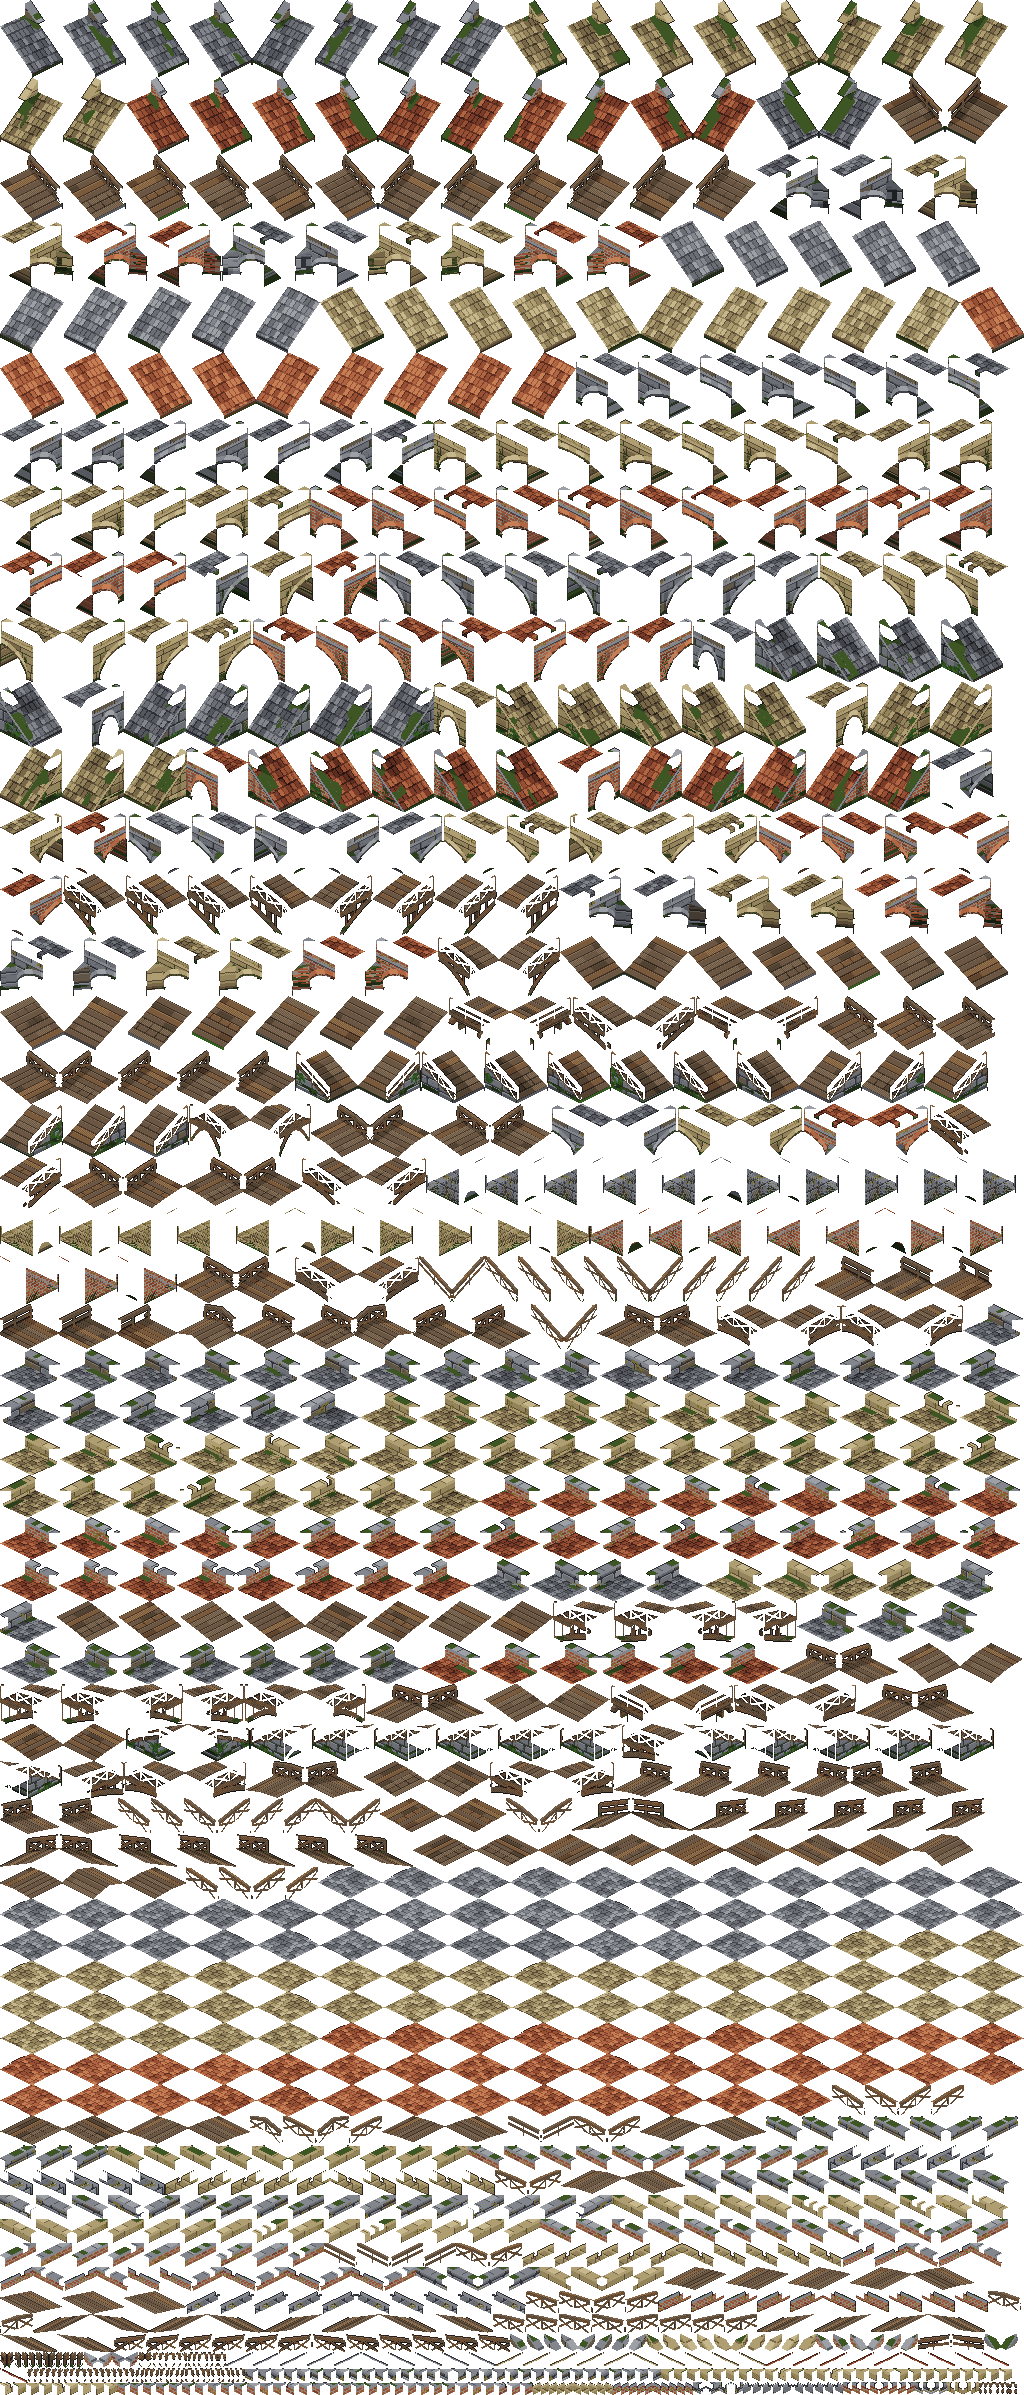
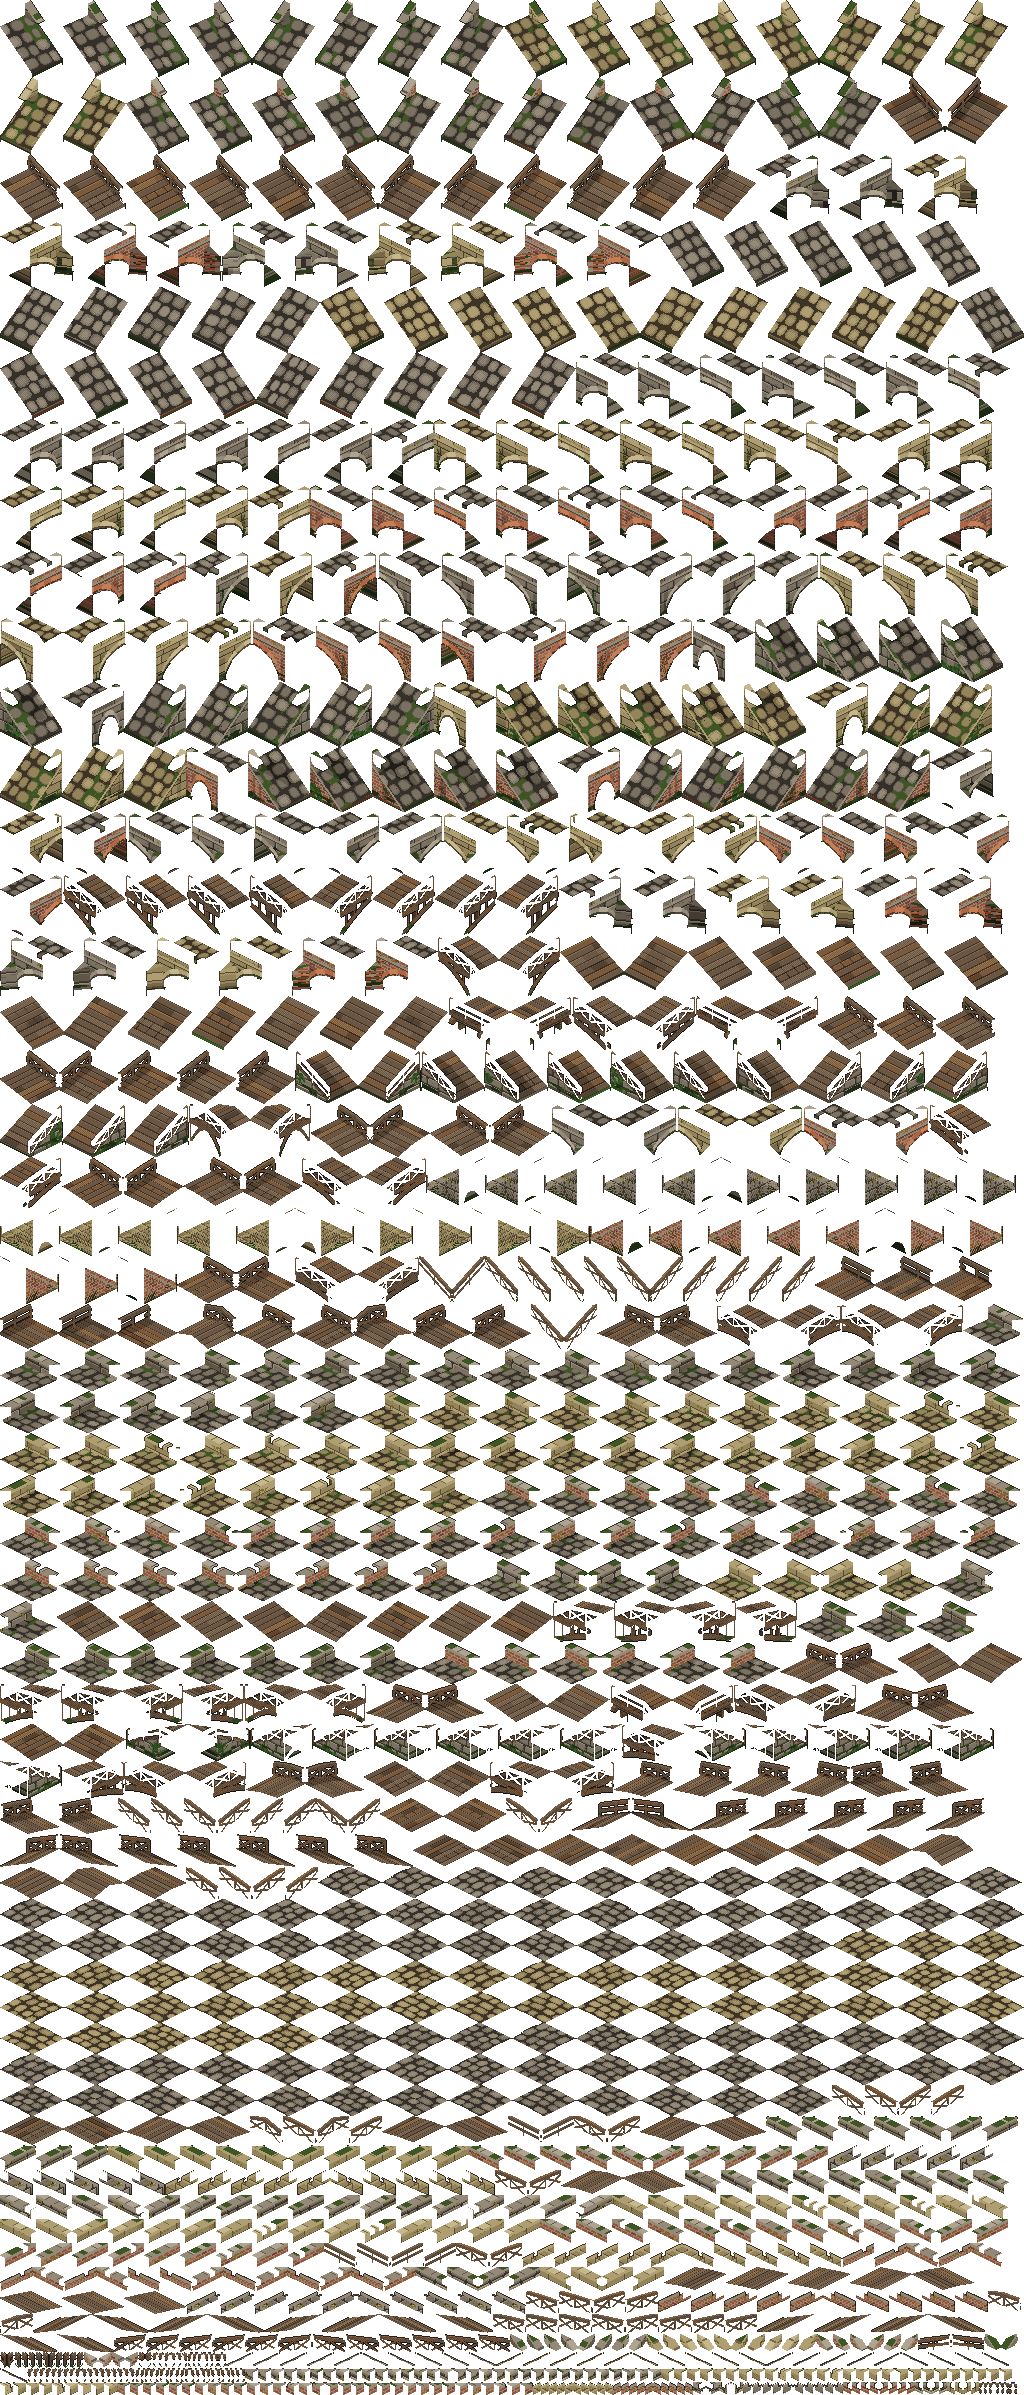
Bruggen: grote ronde kinderkopjes in het warme grijs van de huizen, ook op de brug van baksteen
Marcel, 17 okt, op de eerste beelden uit het spel: "de stenen van de brug nog niet goed genoeg", "deze zijn te fijn",
"die rode lijken wel dakpannen" en "de ramp op de grijze stenen is ook te verschillend met de rest". Het wegdek had
kinderkopjes van 5 bij 4 pixels in de steen van de brug, dus op een brug van baksteen rode rijtjes; nu zijn het ronde
stenen van 8 bij 8 tot 13, met een bredere voeg waar vier samenkomen, grijs (bij zandsteen zandkleurig). En het grijs is
veldsteenWarm, dat van de huizen, in plaats van het koele veldsteen van dorp.cjs.

Claude-Session: https://claude.ai/code/session_01HNnbMq3zaGXouj2zumrMh8

diff --git a/ontwerp/beeld.md b/ontwerp/beeld.md
@@ -1110,6 +1110,12 @@ persoon." Op de tweede: **"Goed zo, zet ze in het spel"**.
 - **Waar welke** (`js/eiland.js`, `brugSoort`): steen bij de stad (baksteen) en het kasteel, bij rotsen en op de heide, en
   over een brede oversteek; hout in het woud, het veen en het broek, en over een smalle, om de andere een boogbrug. De
   steen is die van het land: zandsteen bij de stijlen oker en roze, anders veldsteen.
+- **De stenen in het spel** (Marcel, 17 okt, op de eerste beelden uit het spel: "de stenen van de brug nog niet goed
+  genoeg", "deze zijn te fijn", "die rode lijken wel dakpannen", "de ramp op de grijze stenen is ook te verschillend met
+  de rest"): het wegdek is van grote, ronde kinderkopjes (`wegdekPixel`: rijen van 8 pixels dwars op de brug, stenen van
+  8 tot 13, met ronde hoeken en een bredere voeg waar vier stenen samenkomen), grijs op een brug van veldsteen en van
+  baksteen (de baksteen zit alleen in de muren), zandkleurig op een brug van zandsteen; en het grijs is dat van de
+  huizen, `veldsteenWarm` (`huis-sdf.cjs`), niet het koele `veldsteen` van `dorp.cjs`.
 - **In het spel** (`bruggen-vel.cjs`, `beelden/bruggen.png`): stukken van één tegel in twee lagen, geknipt uit hele
   bruggen, zodat er geen naad op een tegelrand komt; de achterlaag (het dek, de overkant, de zijkant met de bogen) vóór
   wie erop loopt, de voorlaag (de borstwering of de leuning aan de kant van de kijker) erna. In het spel ligt het water
